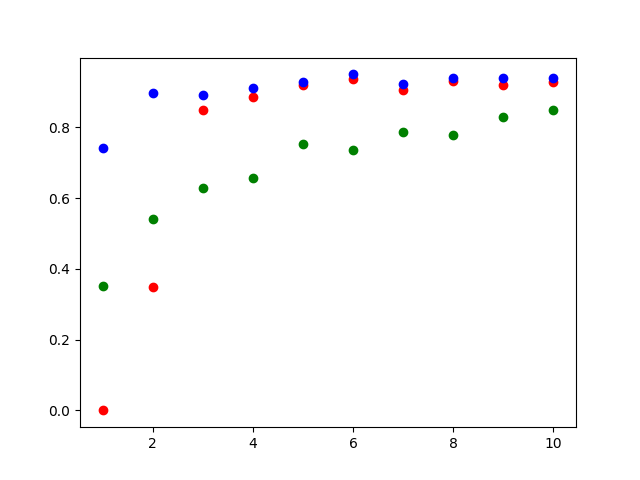
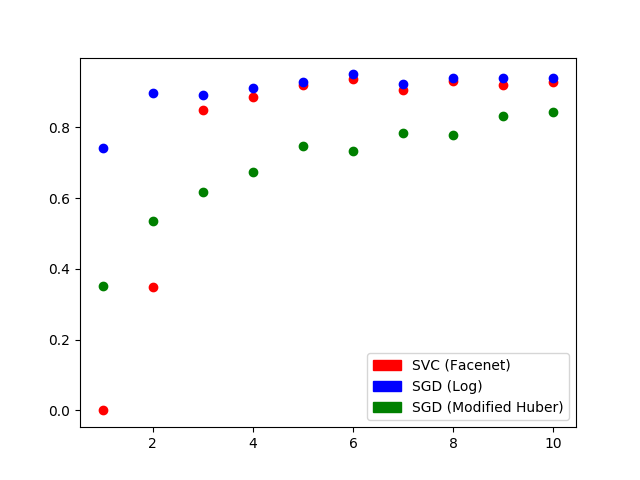
update plots with labels nad use SDG log model for classification

diff --git a/src/plot_accuracy_num_classes.py b/src/plot_accuracy_num_classes.py
@@ -4,6 +4,7 @@ from __future__ import print_function
 
 from Tkinter import *
 import matplotlib.pyplot as plt
+import matplotlib.patches as mpatches
 import pickle
 from sklearn.svm import SVC
 from sklearn import linear_model
@@ -68,6 +69,12 @@ def main():
     print("| Accuracy SVM | "+" | ".join(map(str,results))+"|")
     print("| Accuracy LOG | "+" | ".join(map(str,results_all['log']))+"|")
     print("| Accuracy HUB | "+" | ".join(map(str,results_all['modified_huber']))+"|")
+
+    red_patch = mpatches.Patch(color='red', label='SVC (Facenet)')
+    blue_patch = mpatches.Patch(color='blue', label='SGD (Log)')
+    green_patch = mpatches.Patch(color='green', label='SGD (Modified Huber)')
+    plt.legend(handles=[red_patch, blue_patch,green_patch])
+
     plt.plot(test_sizes, results, 'ro', test_sizes, results_all['log'], 'bo', test_sizes, results_all['modified_huber'], 'go')
     plt.show()
 

diff --git a/src/plot_accuracy_num_samples.py b/src/plot_accuracy_num_samples.py
@@ -4,6 +4,7 @@ from __future__ import print_function
 
 from Tkinter import *
 import matplotlib.pyplot as plt
+import matplotlib.patches as mpatches
 import pickle
 from sklearn.svm import SVC
 from sklearn import linear_model
@@ -70,6 +71,10 @@ def main():
     print("| Accuracy SVM | "+" | ".join(map(str,results))+"|")
     print("| Accuracy LOG | "+" | ".join(map(str,results_all['log']))+"|")
     print("| Accuracy HUB | "+" | ".join(map(str,results_all['modified_huber']))+"|")
+    red_patch = mpatches.Patch(color='red', label='SVC (Facenet)')
+    blue_patch = mpatches.Patch(color='blue', label='SGD (Log)')
+    green_patch = mpatches.Patch(color='green', label='SGD (Modified Huber)')
+    plt.legend(handles=[red_patch, blue_patch,green_patch])
     plt.plot(test_sizes, results, 'ro', test_sizes, results_all['log'], 'bo', test_sizes, results_all['modified_huber'], 'go')
     plt.show()
 

diff --git a/src/face_mind.py b/src/face_mind.py
@@ -5,7 +5,8 @@ from scipy import misc
 import os
 import pickle
 import tensorflow as tf
-from sklearn.svm import SVC
+# from sklearn.svm import SVC
+from sklearn import linear_model
 import math
 
 class FaceMind:
@@ -88,7 +89,8 @@ class FaceMind:
       images = facenet.load_data(paths_batch, False, False, self.image_size)
       feed_dict = {self.images_placeholder: images, self.phase_train_placeholder: False}
       self.emb_array[start_index:end_index, :] = self.sess.run(self.embeddings, feed_dict=feed_dict)
-    self.model = SVC(kernel='linear', probability=True)
+    # self.model = SVC(kernel='linear', probability=True)
+    self.model = linear_model.SGDClassifier(loss='log')
     self.class_names = [cls.name.replace('_', ' ') for cls in dataset]
     self.fit()
 
